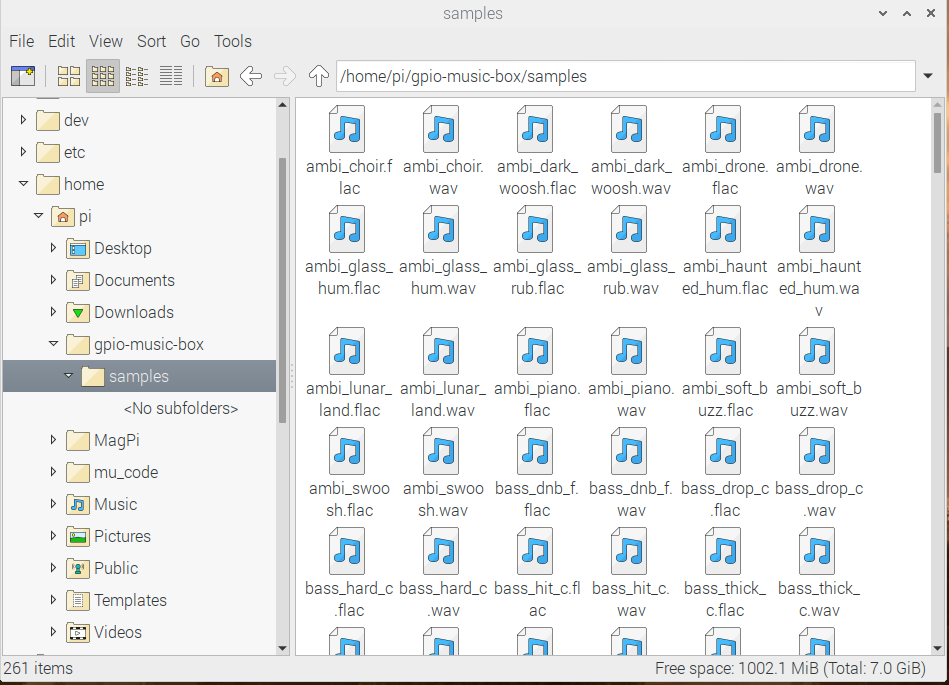
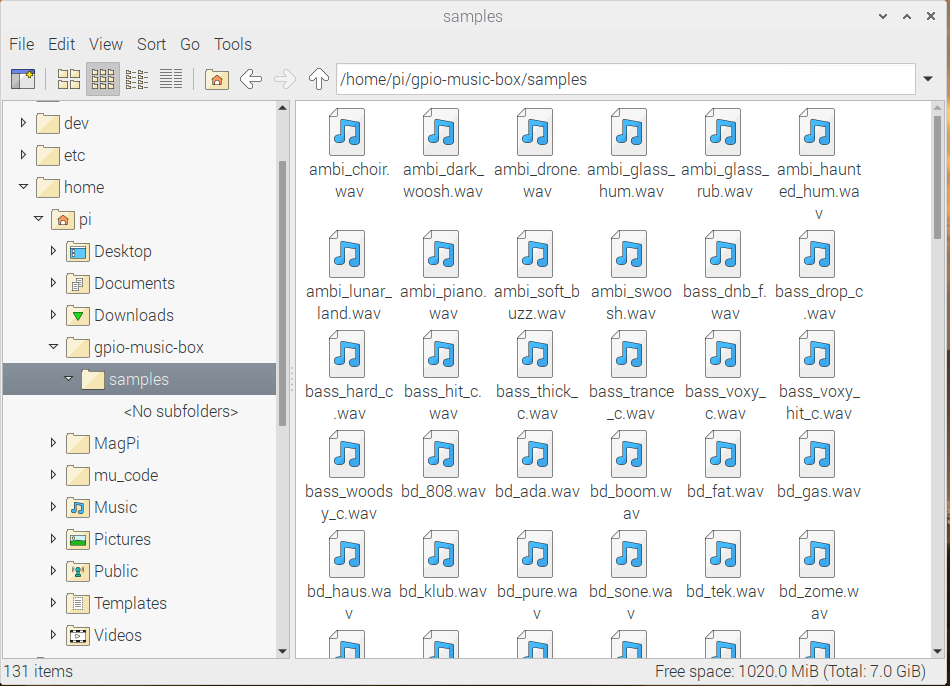
update

Changed region(s): [[0.0, 0.0307, 1.0, 1.0], [0.9168, 0.0, 1.0, 0.0307], [0.4584, 0.0, 0.5501, 0.0307]]

diff --git a/en/step_3.md b/en/step_3.md
@@ -1,34 +1,82 @@
-## Converting your samples
+## Playing sounds
 
-- Python has difficulty playing `.flac` files, so you need to convert them all to `.wav` format.
+Now it's time to start writing your Python code. You can use any text editor or IDE to do this, but Mu is always an easy choice.
 
-- Have a look at the sections below to see how to convert audio files and how to batch-process files. See if you can convert all of your `.flac` samples in one batch using **bash**.
+![mu-opening](mu-starting.png)
 
-[[[nix-bash-convert-media-files]]]
+The first stage of creating the instruments of your music box is to test to see if Python can play a few of the samples you have copied.
 
-[[[nix-bash-batch-operations-on-files]]]
+[[[generic-python-playing-sound-files]]]
 
-- The basic idea is the following: `for` each file, use that file as input for the `avconv` command, and then use the file's name, ending in `.wav` instead of `.flac`, as the name of the output file.
+--- task ---
+First you will need to import and initialise the pygame module for playing sound files.
 
-- Have a look at the hints below if you need help figuring out how to do this.
+```python
+import pygame
+
+pygame.init()
+```
+--- /task ---
+
+--- task ---
+Save this file in you `gpio-music-box` directory.
+--- /task ---
+
+--- task ---
+Choose four sound files that you want to use for your project. Here we will be using:
+
+```
+drum_tom_mid_hard.wav
+drum_cymbal_hard.wav
+drum_snare_hard.wav
+drum_cowbell.wav
+```
+--- /task ---
+
+--- task ---
+You can then create a Python object that links to each of these sound files. Each should have it's own individual name. For instance:
+
+```python
+drum = pygame.mixer.Sound("/home/pi/gpio-music-box/samples/drum_tom_mid_hard.wav")
+```
+--- /task ---
+
+--- task ---
+Create named onjects for your remaining three sounds.
 
 --- hints --- --- hint ---
-Your bash command should follow the following format:
-1. `for` each file with a `.flac` ending
-1. convert it using `avconv`
-1. name the output with the file's original, but change the `.flac` to `.wav`
---- /hint --- --- hint ---
-Your bash command should look like this:
-```bash
-for f in *.flac; do avconv -i "$f" "${f%.flac}.wav"; done
-```
-You need to make sure you are in the `samples` directory when you run the command. You can get to your `samples` directory with this command:
-```bash
-cd /home/pi/gpio-music-box/samples
+Your `.wav` files are all in your `samples` directory. So the file path will look like this:
+```python
+"/home/pi/gpio-music-box/samples/filename.wav"
 ```
 --- /hint --- --- hint ---
-Here's an animation showing how the operation can be achieved, along with the output:
-<video width="560" height="315" controls>
-<source src="images/gpio-music-box-3.webm" type="video/webm">
-Try using Firefox or Chrome for WebM support.
+Each sound object will need to have a unique name. You could call the next one `cymbal`:
+```python
+cymbal = pygame.mixer.Sound("/home/pi/gpio-music-box/samples/drum_cymbal_hard.wav")
+```
+--- /hint --- --- hint ---
+Here's what your code should look like:
+```python
+import pygame
+
+pygame.init()
+
+drum = pygame.mixer.Sound("/home/pi/gpio-music-box/samples/drum_tom_mid_hard.wav")
+cymbal = pygame.mixer.Sound("/home/pi/gpio-music-box/samples/drum_cymbal_hard.wav")
+snare = pygame.mixer.Sound("/home/pi/gpio-music-box/samples/drum_snare_hard.wav")
+bell = pygame.mixer.Sound("/home/pi/gpio-music-box/samples/drum_cowbell.wav")
+```
 --- /hint --- --- /hints ---
+--- /task ---
+
+--- task ---
+Save and run you code. Then in the shell at the bottom of the Mu editor, you can use `.play()` commands to play the sounds.
+
+```python3
+drum.play()
+```
+
+![playing-sounds](images/playing-sounds.png)
+--- /task ---
+
+If you don't hear the sound, check that your speakers or headphones are working and that your volume is turned up.

diff --git a/en/step_6.md b/en/step_6.md
@@ -1,24 +1,36 @@
-## Playing sounds at the press of a button
+## Improving your script
 
-- Have a look at the section below to see how a function can be called using a button push.
+The code you have written should work without any problems. However, it's generally a good idea to make your code a little cleaner once you have a working prototype. The next steps are completely optional. If you're happy with your script, then just leave it as it is. If you want to make it a little cleaner, then try the following steps.
 
-[[[rpi-python-function-calls-with-buttons]]]
+- You can store your button objects and sounds in a dictionary, instead of having to create eight different objects.
 
-The function you want to call when the button is pressed is, for example, `drum.play()`. However, when using an event, such as a button push, to call a function, you don't use the brackets `()`. This is because you don't want the function to be called straight away, but rather be called only when the button is pushed. So in this case you just use `drum.play`.
+- Have a look at the steps below to learn about creating basic dictionaries and then looping over them.
 
-- Now see if you can make your buttons trigger different sounds. Test and run your code to make sure all four buttons make sounds play. If something's not working, then have a look at the hints below.
+[[[generic-python-basic-dictionaries]]]
+[[[generic-python-iterating-dictionaries]]]
+
+- Can you create a dictionary that contains your `Button()` objects as keys and your `Sound()` objects as values?
+
+[[[generic-python-functions-in-dictionaries]]]
+
+- If you have a dictionary of `Button()` and `Sound()` objects, you can now loop over them with a `for` loop, so that each button is tied to a different sound.
 
 --- hints --- --- hint ---
-Earlier, you set up functions using the `pygame` module and called them in the shell by typing, for example, `drum.play()`. These function calls can be used by the `when_pressed` method.
---- /hint --- --- hint ---
-To play the drum, you need a named button and the `drum` call. For example:
+Your dictionary should contain the button objects linked to the sounds to be played. For instance, your first key:value pair might look like this:
+
 ```python
-btn_drum.when_pressed = drum.play
+button_sounds = {Button(2): Sound("samples/drum_tom_mid_hard.wav")}
 ```
-This should play the drum sound each time the button is pressed.
+
 --- /hint --- --- hint ---
-Here's a video showing how all the sounds can be triggered by pressing buttons. The buttons are wired to pins 4, 17, 27 and 10.
+You can iterate over the dictionary to link each button to its sound.
+```python
+for button, sound in button_sounds.items():
+    button.when_pressed = sound.play
+```
+--- /hint --- --- hint ---
+Here's a video showing how the code can be written:
 <video width="560" height="315" controls>
-<source src="images/gpio-music-box-6.webm" type="video/webm">
+<source src="images/gpio-music-box-7.webm" type="video/webm">
 Try using Firefox or Chrome for WebM support
 --- /hint --- --- /hints ---

diff --git a/en/step_5.md b/en/step_5.md
@@ -1,24 +1,24 @@
-## Connecting your buttons
+## Playing sounds at the press of a button
 
-You're going to need four buttons, each wired to separate GPIO pins on the Raspberry Pi. Check out the steps below and then have a go at wiring up your buttons.
+- Have a look at the section below to see how a function can be called using a button push.
 
-[[[rpi-gpio-pins]]]
+[[[rpi-python-function-calls-with-buttons]]]
 
-[[[rpi-gpio-wiring-a-button]]]
+The function you want to call when the button is pressed is, for example, `drum.play()`. However, when using an event, such as a button push, to call a function, you don't use the brackets `()`. This is because you don't want the function to be called straight away, but rather be called only when the button is pushed. So in this case you just use `drum.play`.
 
-- Place your four buttons into your breadboard.
-- Wire each button up to a different GPIO pin.
+- Now see if you can make your buttons trigger different sounds. Test and run your code to make sure all four buttons make sounds play. If something's not working, then have a look at the hints below.
 
 --- hints --- --- hint ---
-You can wire a single **GND** pin to the negative *blue* rail on the breadboard. Then wire one leg of each button to this rail. The remaining legs of the buttons can be wired to individual GPIO pins.
+Earlier, you set up functions using the `pygame` module and called them in the shell by typing, for example, `drum.play()`. These function calls can be used by the `when_pressed` method.
 --- /hint --- --- hint ---
-Here's a wiring diagram that might help:
-![4-btn](images/4-btn.png)
+To play the drum, you need a named button and the `drum` call. For example:
+```python
+btn_drum.when_pressed = drum.play
+```
+This should play the drum sound each time the button is pressed.
 --- /hint --- --- hint ---
-Here's a video showing how the buttons can be wired.
+Here's a video showing how all the sounds can be triggered by pressing buttons. The buttons are wired to pins 4, 17, 27 and 10.
 <video width="560" height="315" controls>
-<source src="images/gpio-music-box-5.webm" type="video/webm">
+<source src="images/gpio-music-box-6.webm" type="video/webm">
 Try using Firefox or Chrome for WebM support
 --- /hint --- --- /hints ---
-
-

diff --git a/en/step_4.md b/en/step_4.md
@@ -1,37 +1,24 @@
-## Playing sounds
+## Connecting your buttons
 
-- Now it's time to start writing your Python code. You can use any text editor to do this, but IDLE is always an easy choice.
+You're going to need four buttons, each wired to separate GPIO pins on the Raspberry Pi. Check out the steps below and then have a go at wiring up your buttons.
 
-[[[rpi-gui-idle-opening]]]
+[[[rpi-gpio-pins]]]
 
-- The first stage of creating the instruments of your music box is to test to see if Python can play a few of the samples you have copied.
+[[[rpi-gpio-wiring-a-button]]]
 
-[[[generic-python-playing-sound-files]]]
-
-### Creating your virtual instruments
-
-- You're going to need four sounds to use in your GPIO music box.
-- To do this you can:
-  - import and initialise the `pygame` module
-  - create four different sound objects using four different `.wav` files
-
-Save your Python file in your `gpio-music-box` directory by clicking on 'File' and 'Save'.
+- Place your four buttons into your breadboard.
+- Wire each button up to a different GPIO pin.
 
 --- hints --- --- hint ---
-Your `.wav` files are all in your `samples` directory. So the file path will look like this:
-```python
-'samples/drum_tom_mid_hard.wav'
-```
+You can wire a single **GND** pin to the negative *blue* rail on the breadboard. Then wire one leg of each button to this rail. The remaining legs of the buttons can be wired to individual GPIO pins.
 --- /hint --- --- hint ---
-Each sound object will need to have a unique name. You could call the first one `drum`:
-```python
-drum = pygame.mixer.Sound('samples/drum_tom_mid_hard.wav')
-```
+Here's a wiring diagram that might help:
+![4-btn](images/4-btn.png)
 --- /hint --- --- hint ---
-Here's a video showing you the process
+Here's a video showing how the buttons can be wired.
 <video width="560" height="315" controls>
-<source src="images/gpio-music-box-4.webm" type="video/webm">
+<source src="images/gpio-music-box-5.webm" type="video/webm">
 Try using Firefox or Chrome for WebM support
-</video>
 --- /hint --- --- /hints ---
+
 

diff --git a/en/step_7.md b/en/step_7.md
@@ -1,36 +1,7 @@
-## Improving your script
+## Challenge: a mobile disco
 
-The code you have written should work without any problems. However, it's generally a good idea to make your code a little cleaner once you have a working prototype. The next steps are completely optional. If you're happy with your script, then just leave it as it is. If you want to make it a little cleaner, then try the following steps.
-
-- You can store your button objects and sounds in a dictionary, instead of having to create eight different objects.
-
-- Have a look at the steps below to learn about creating basic dictionaries and then looping over them.
-
-[[[generic-python-basic-dictionaries]]]
-[[[generic-python-iterating-dictionaries]]]
-
-- Can you create a dictionary that contains your `Button()` objects as keys and your `Sound()` objects as values?
-
-[[[generic-python-functions-in-dictionaries]]]
-
-- If you have a dictionary of `Button()` and `Sound()` objects, you can now loop over them with a `for` loop, so that each button is tied to a different sound.
-
---- hints --- --- hint ---
-Your dictionary should contain the button objects linked to the sounds to be played. For instance, your first key:value pair might look like this:
-
-```python
-button_sounds = {Button(2): Sound("samples/drum_tom_mid_hard.wav")}
-```
-
---- /hint --- --- hint ---
-You can iterate over the dictionary to link each button to its sound.
-```python
-for button, sound in button_sounds.items():
-    button.when_pressed = sound.play
-```
---- /hint --- --- hint ---
-Here's a video showing how the code can be written:
-<video width="560" height="315" controls>
-<source src="images/gpio-music-box-7.webm" type="video/webm">
-Try using Firefox or Chrome for WebM support
---- /hint --- --- /hints ---
+--- challenge ---
+- Can you use different sounds in your program to change things up?
+- Why not add more buttons for a greater variety of instruments?
+- Can you add some LEDs to your project and make them blink whenever a sound is played?
+--- /challenge ---

diff --git a/en/step_2.md b/en/step_2.md
@@ -14,7 +14,7 @@ The first thing you need to do is create a new directory in which to store all y
 Using the same method as before, create a new directory called `samples` inside your `gpio-music-box` directory.
 --- /task ---
 
-There are lots of sample sounds stored in `/usr/share/sonic-pi/samples`. These all need to copied into `gpio-music-box/samples` directory.
+There are lots of sample sounds stored in `/usr/share/sonic-pi/samples`. These all need to be copied into `gpio-music-box/samples` directory.
 
 --- task ---
 Open a terminal window by clicking on the icon in the top left corner of your screen.

diff --git a/en/step_1.md b/en/step_1.md
@@ -36,6 +36,7 @@ title: What you will need
 - four (4) tactile switches to make buttons
 - five (5) male-to-female jumper leads
 - four (4) male-to-male jumper leads
+- Speakers or headphones.
 
 ### Software
 - The latest version of the [Raspbian](https://www.raspberrypi.org/downloads/raspbian/) operating system
